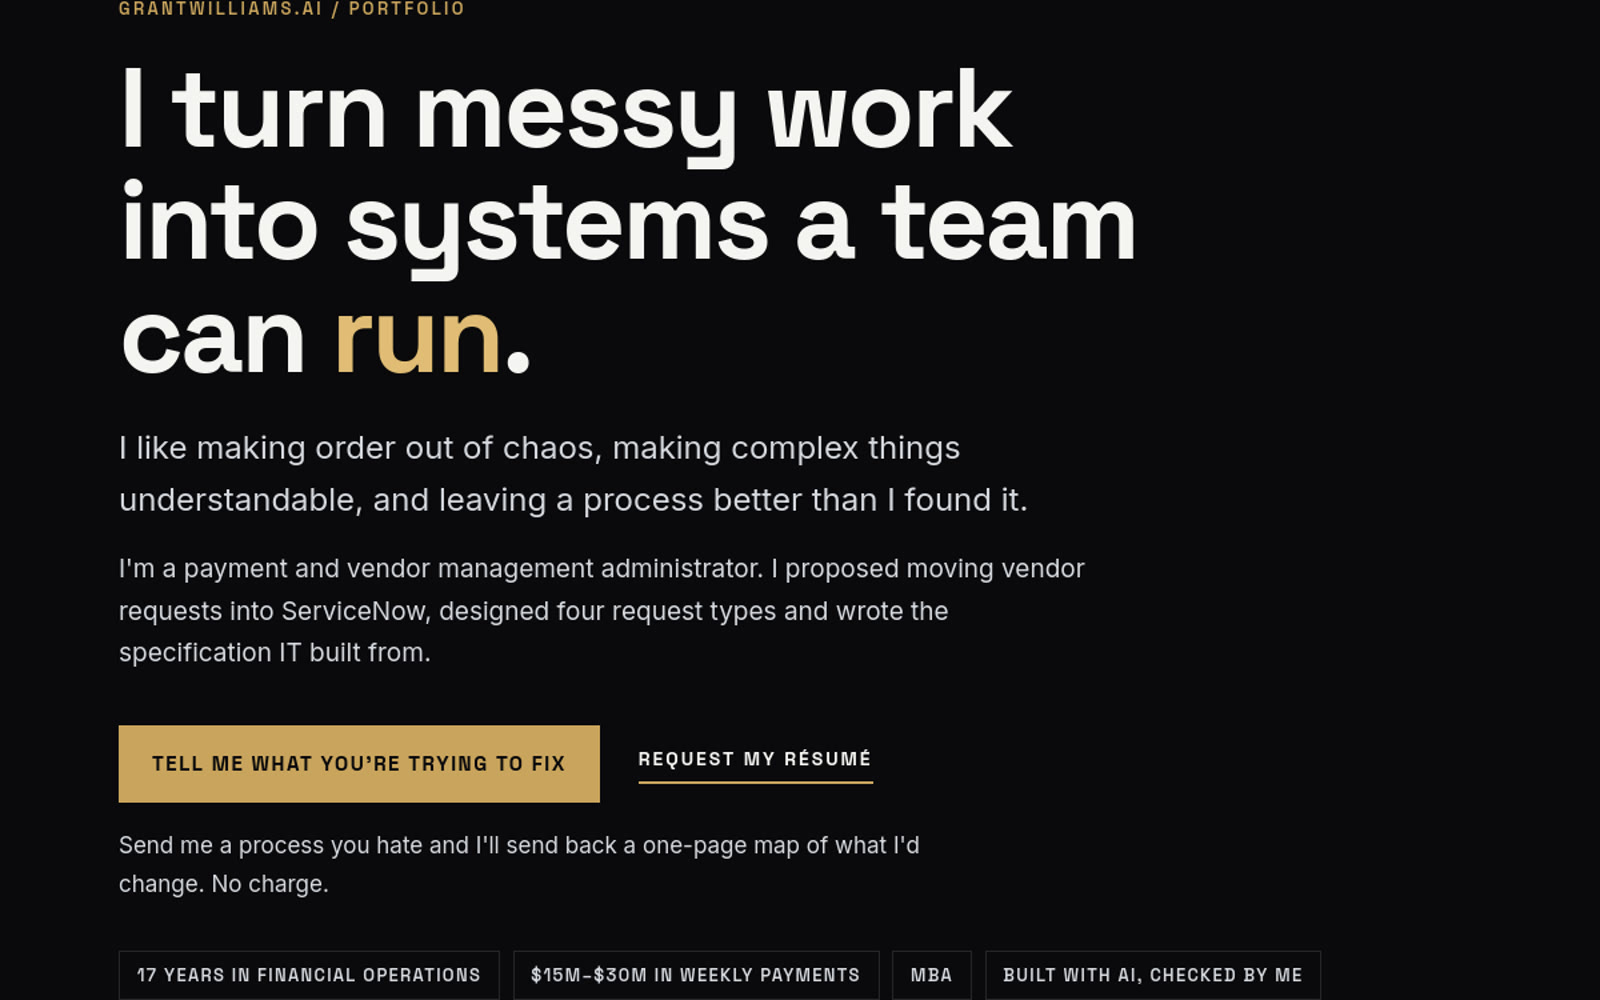
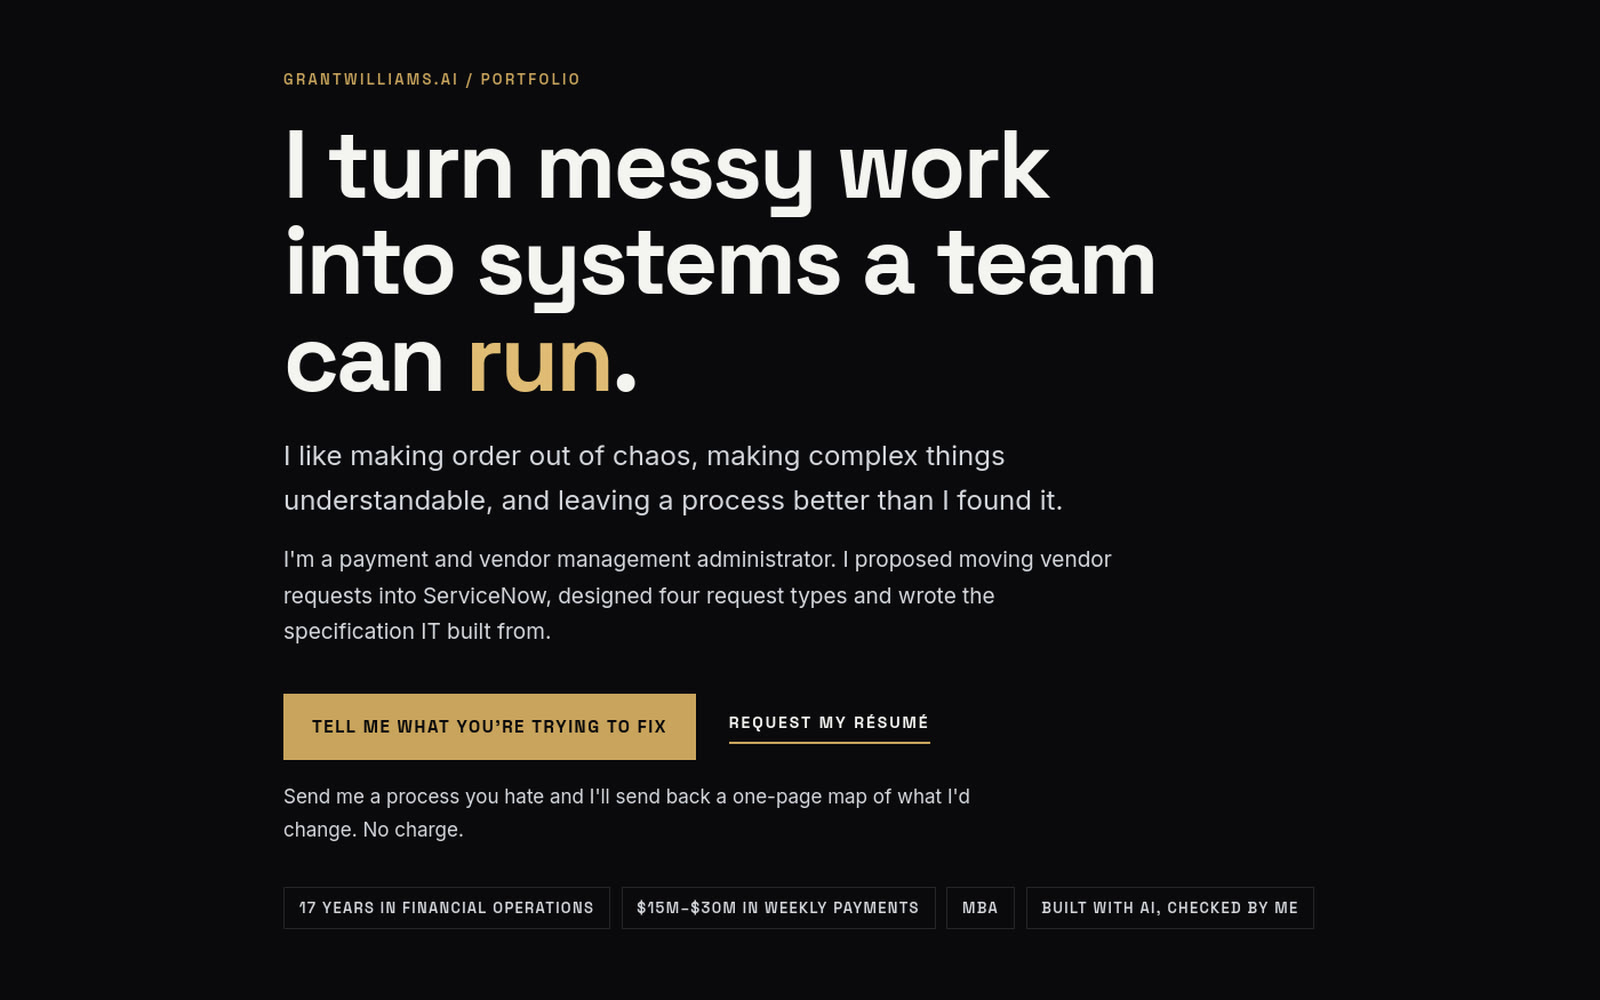
Portfolio card picture no longer clipped

diff --git a/site/index.html b/site/index.html
@@ -66,7 +66,6 @@
     <a class="resident-door reveal" href="/work/">
       <div class="door-preview">
         <img src="/assets/img/previews/portfolio.jpg" alt="The portfolio page: &quot;I turn messy work into systems a team can run.&quot;" loading="lazy">
-        <span class="door-domain">portfolio &amp; career</span>
       </div>
       <div class="door-body">
         <p class="micro-label">portfolio &amp; career</p>

diff --git a/site/work/index.html b/site/work/index.html
@@ -55,7 +55,6 @@
     <a class="resident-door reveal" href="/portfolio/">
       <div class="door-preview">
         <img src="/assets/img/previews/portfolio.jpg" alt="The portfolio page: &quot;I turn messy work into systems a team can run.&quot;" loading="lazy">
-        <span class="door-domain">portfolio</span>
       </div>
       <div class="door-body">
         <p class="micro-label">portfolio</p>
